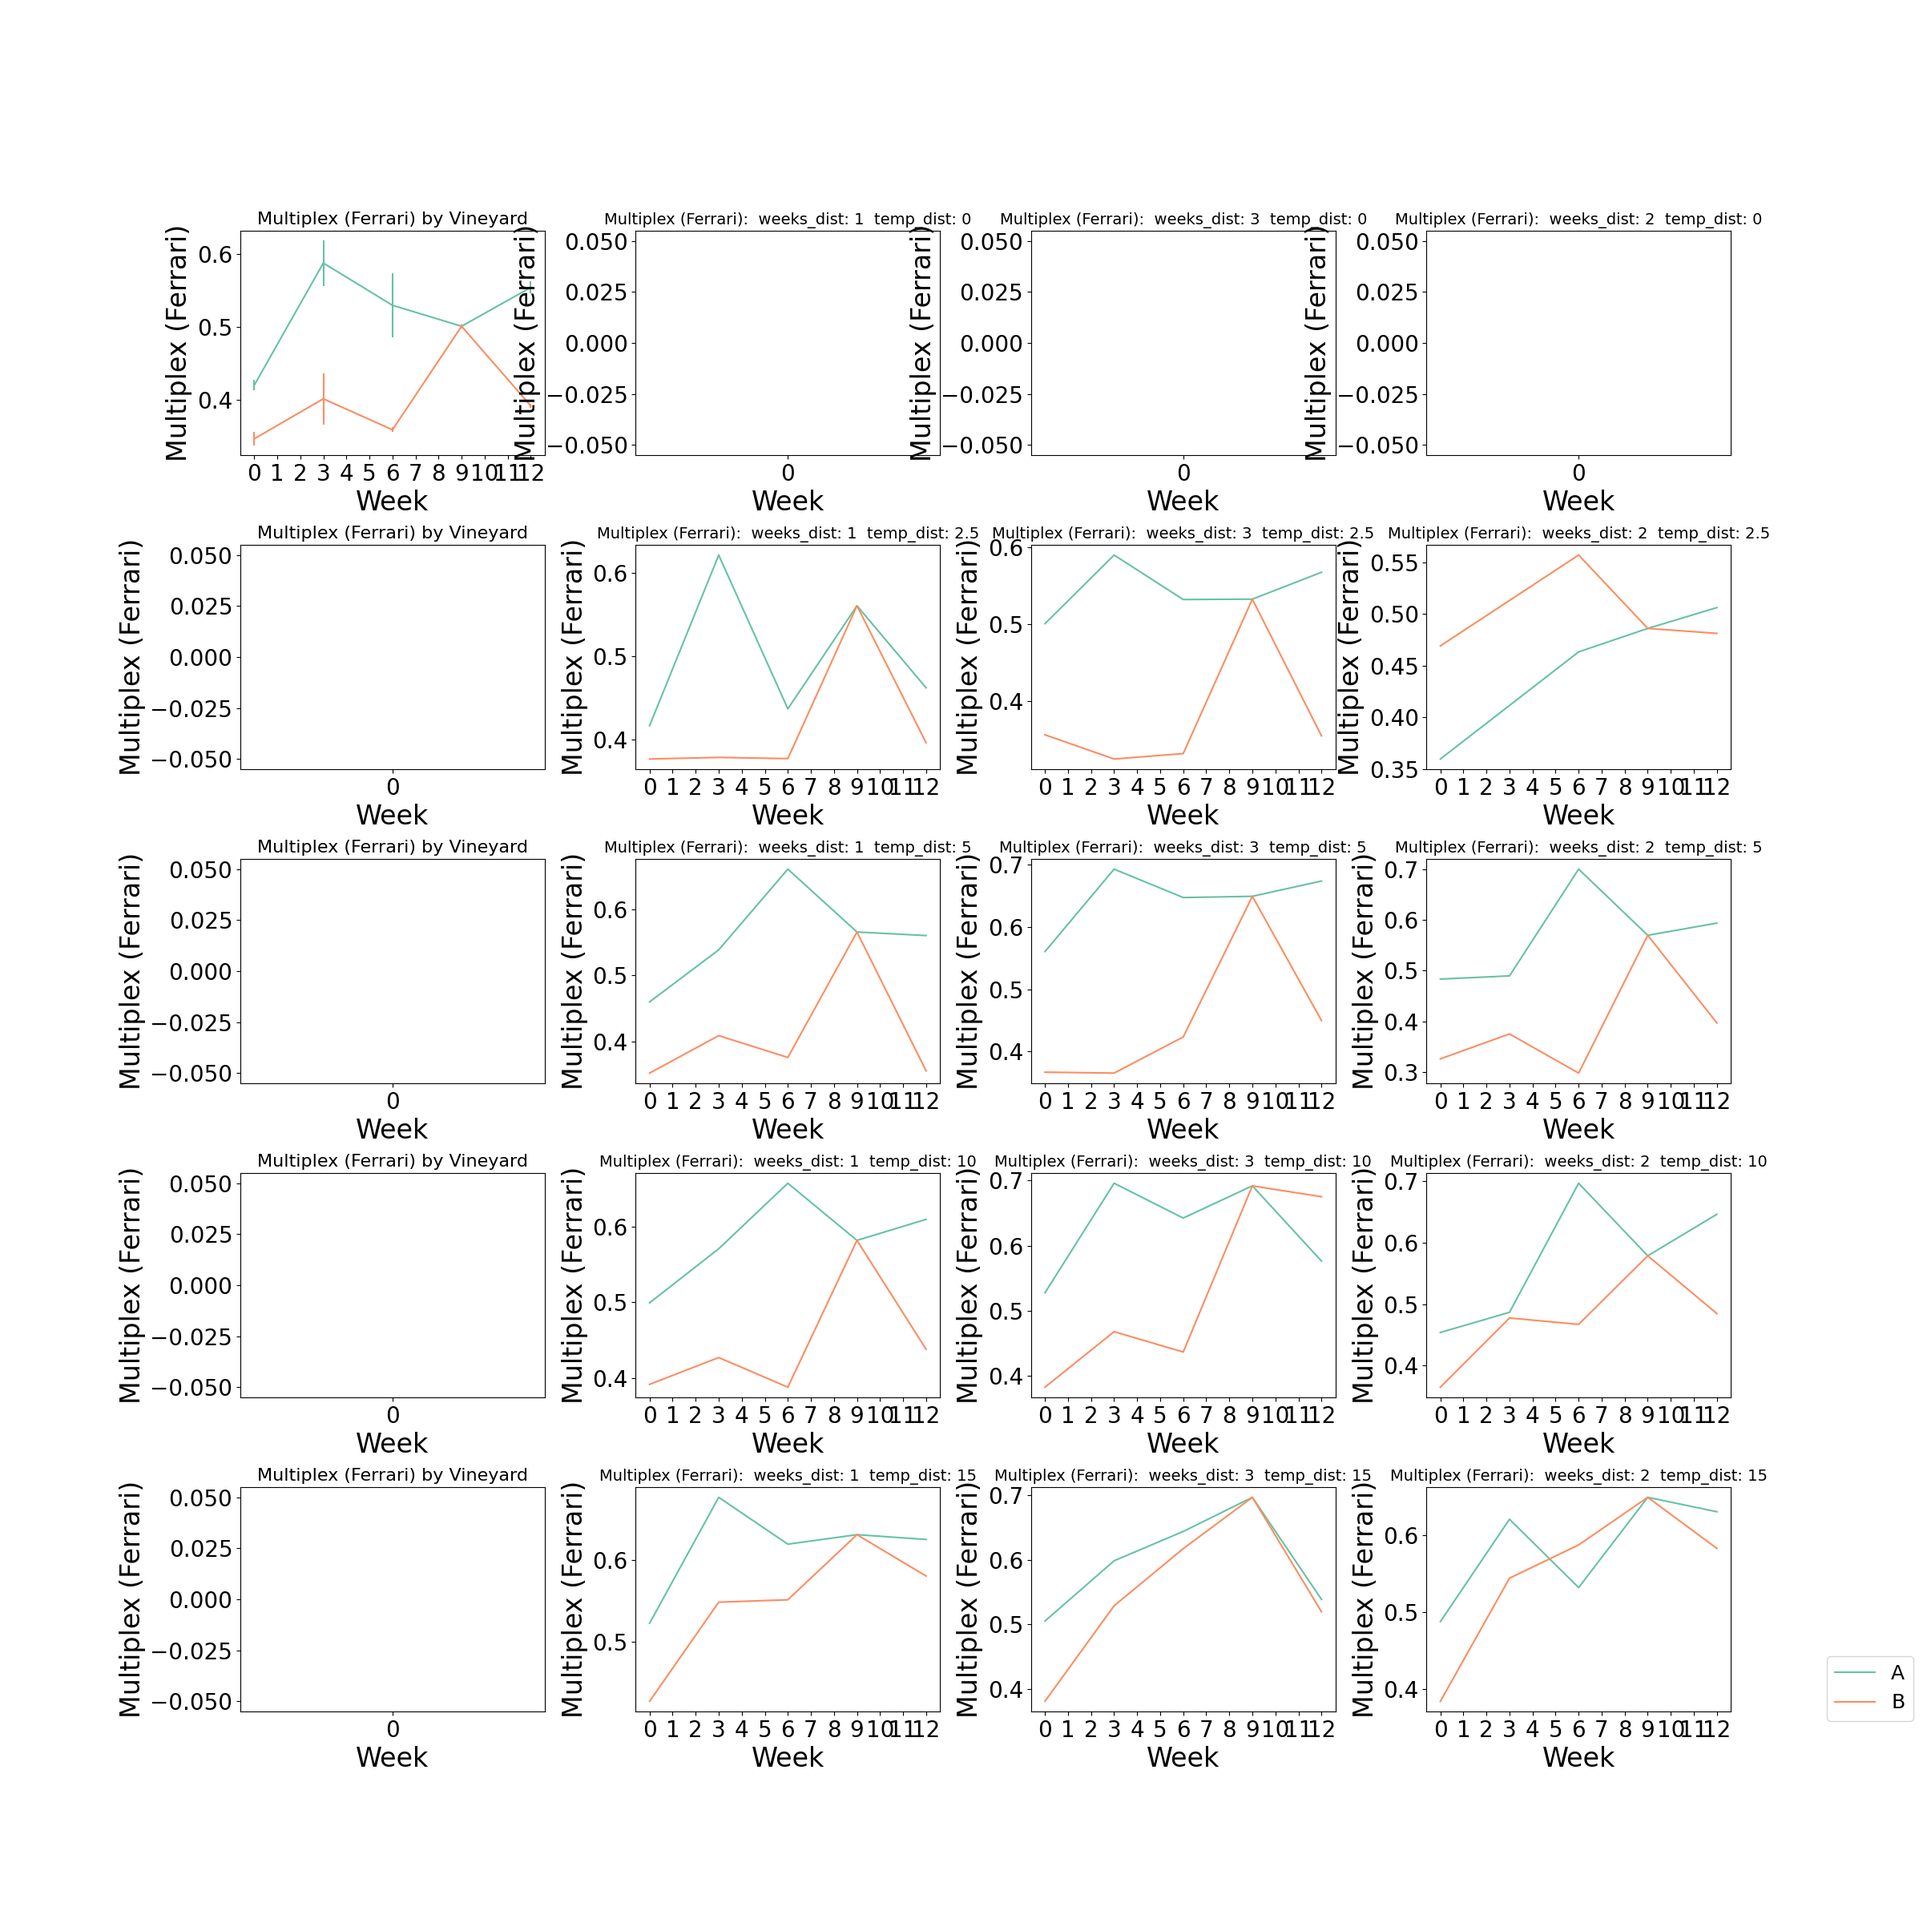
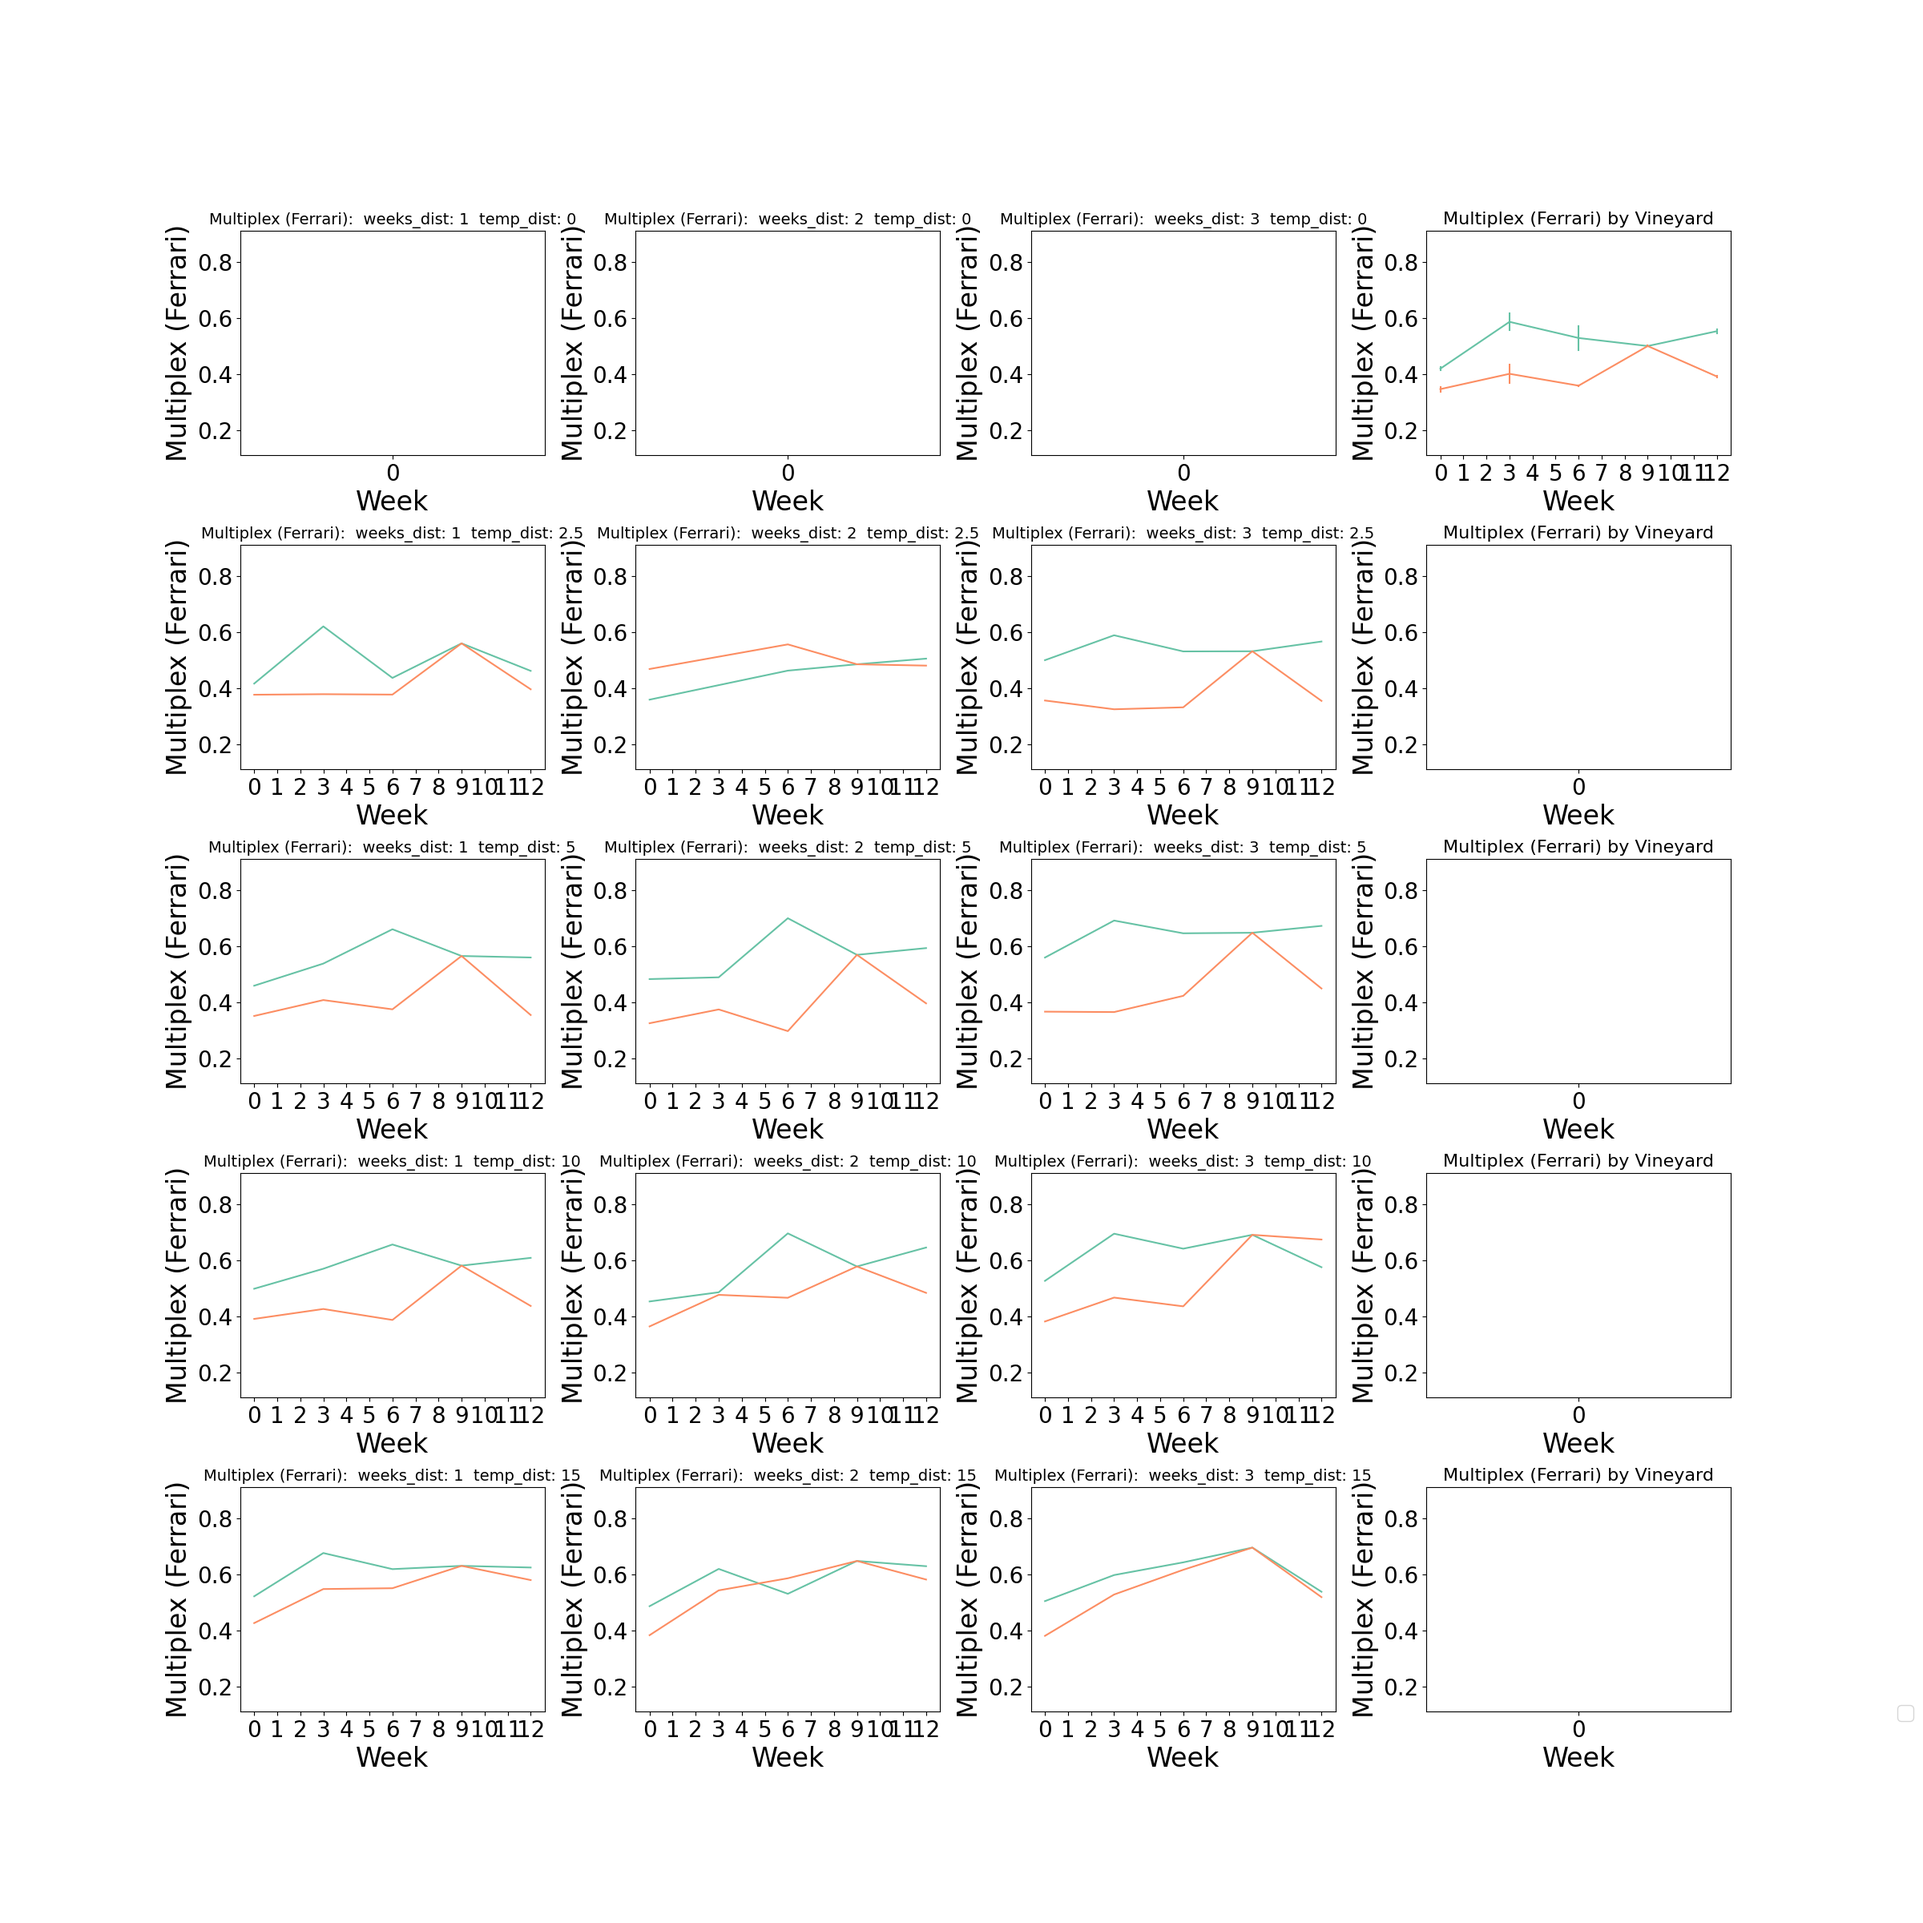
1. adding correlation matrix by vinyards. 2. adding matrix print with same y axis

diff --git a/main.py b/main.py
@@ -150,9 +150,9 @@ def get_prep_df(path, path_b, path_v, treatment_dict: dict) -> pd.DataFrame:
     return new_df
 
 
-def plot_correl_matrix(corr_mat: pd.DataFrame, correlation_name: str):
+def plot_correl_matrix(corr_mat: pd.DataFrame, correlation_name: str, vinyeard:str):
     '''
-    :param corr_mat: correlation matrix prepared to create the datafram
+    :param corr_mat: correlation matrix prepared to create the dataframe
     :return: figure of correlation matrix
     '''
 
@@ -172,13 +172,12 @@ def plot_correl_matrix(corr_mat: pd.DataFrame, correlation_name: str):
     plt.tight_layout()
     plt.show()
     plt.draw()
-    fig5.savefig('figures_update/' + correlation_name + '.png')
+    fig5.savefig('figures_update/' + correlation_name + ', Vineyard: ' + vinyeard + '.png')
     # plt.show()
 
 
 def create_pearson_correl(df: pd.DataFrame, col_list_in: list, col_list_out: list):
     '''
-
     :param df: raw_data
     :param col_list_in: relevant columns list from measures taken from time 0
     :param col_list_out: relevant columns list from measures that we want to check correl 78
@@ -187,21 +186,23 @@ def create_pearson_correl(df: pd.DataFrame, col_list_in: list, col_list_out: lis
         2. correlation matrix of all features taken in entrance to storage vs relevant output features.
     '''
     # in features vs in features
-    df_in = df[col_list_in]
-    correl = df_in.corr()
-    plot_correl_matrix(correl, correlation_name='in_vs_in')
+    df_in = df[col_list_in + ['Vineyard']]
+    df_out = df[col_list_out]
+
+    for Vineyard in df_in['Vineyard'].unique():
+        correl = df_in[df_in['Vineyard'] == Vineyard].corr()
+        plot_correl_matrix(correl, correlation_name='in_vs_in', vinyeard = Vineyard)
 
     # in features vs. out features
-    df_out = df[col_list_out]
-    results = pd.concat(
-        [df_in, df_out.add_suffix('_out')],
+
+
         # [df.loc[:, ~df.columns.isin(['Vineyard', 'Treatment', 'Replication', 'Time','new_time'])], df_out.add_suffix('_out')],
-        axis=1)
-    correl_out = results.corr()
-    out_cols = [col for col in correl_out.columns if '_out' in col]
-    correl_out = correl_out[out_cols]
-    correl_out = correl_out[~correl_out.index.str.contains('_out')]
-    plot_correl_matrix(correl_out, correlation_name='in_vs_out')
+        results = pd.concat([df_in, df_out.add_suffix('_out')], axis=1)
+        correl_out = results[results['Vineyard'] == Vineyard].corr()
+        out_cols = [col for col in correl_out.columns if '_out' in col]
+        correl_out = correl_out[out_cols]
+        correl_out = correl_out[~correl_out.index.str.contains('_out')]
+        plot_correl_matrix(correl_out, correlation_name='in_vs_out', vinyeard = Vineyard)
 
 
 def get_storage_per_treatment(storage_df: dict, exp_desc: dict):
@@ -291,10 +292,10 @@ def get_relevant_data_per_period(storage_dict: dict):
             #  this function is OK. Now I want to take the result of this function and
             # combine it with the last row of relevant_data (relevant_data.iloc[-1:])
             # the problem is when I use cross join, some columns are disappearing, and it makes no sense.
-            #
-            tsfresh_treatment_data = get_data_from_tsfresh(treatment_num=treatments, df=relevant_data,
-                                                           storage_features=['Humidity', 'Temperature'])
-            all_storage_and_tsfresh_data = pd.merge(relevant_data.iloc[-1:], tsfresh_treatment_data, how='cross')
+####
+            # tsfresh_treatment_data = get_data_from_tsfresh(treatment_num=treatments, df=relevant_data,
+            #                                                storage_features=['Humidity', 'Temperature'])
+            # all_storage_and_tsfresh_data = pd.merge(relevant_data.iloc[-1:], tsfresh_treatment_data, how='cross')
             #this is what I want to do --> final_storage_data_per_treatment[i] = all_storage_and_tsfresh_data
             final_storage_data_per_treatment[i] = relevant_data.iloc[-1:]
 
@@ -321,7 +322,7 @@ def flatten_data_to_grpah(dim_list: list, df: pd.DataFrame, col_name: str, col_n
 
 
 def plot_graph(df: pd.DataFrame, col_name: str, dim_list: list, hue: str, tmp_dim_list: list, axs,
-               dist_week=None, dist_temp=None):
+               ytickslim = None ,dist_week=None, dist_temp=None):
     '''
 
     :param df: flatten data frame with structered known data
@@ -330,6 +331,7 @@ def plot_graph(df: pd.DataFrame, col_name: str, dim_list: list, hue: str, tmp_di
     :param hue: variable to brake the lines with
     :param tmp_dim_list: dimensions list brakedown (hue)
     :param axs: changing axs to plot the figure on.
+    :param ytickslim: set the y axis ticks to be equal in all subplots.
     :return: each facets with multiple subplots.
     '''
     df_plot = df.fillna(np.inf).groupby(dim_list)[[col_name]].mean().replace(np.inf, np.nan).reset_index()
@@ -346,6 +348,8 @@ def plot_graph(df: pd.DataFrame, col_name: str, dim_list: list, hue: str, tmp_di
     axs.tick_params(axis='both', labelsize=20)
     axs.set_xlabel('Week', fontsize=24)
     axs.set_ylabel(col_name, fontsize=24)
+    if ytickslim:
+        axs.set_ylim(bottom=ytickslim[0], top=ytickslim[1])
     if dist_week:
         axs.set_title(label=col_name + ':  weeks_dist: ' + str(dist_week) + '  temp_dist: ' + str(dist_temp), size=14)
     else:
@@ -468,7 +472,7 @@ def create_all_subplots_per_each_fruit_feature(features_list: list, full_storage
                                                col_name_t0=data[1][
                                                    i] if features_list_t0 is not None else None)  # take t0 data if exist
         data_for_grpah['new_time'] = data_for_grpah['new_time'] * 3
-        # ax = fig.add_subplot(Rows, Cols, i_print)
+        ylim = (data_for_grpah.iloc[:,-1].quantile(0.01),data_for_grpah.iloc[:,-1].quantile(0.99))
         for temp in sorted(full_storage_data['disruption_temperature'].unique()):
             for length in sorted(full_storage_data['disruption_length'].unique()):
                 data_for_grpah['disruption_length'] = np.where(data_for_grpah['disruption_length'] == 12, 0,
@@ -485,7 +489,7 @@ def create_all_subplots_per_each_fruit_feature(features_list: list, full_storage
                                 data_for_grpah['disruption_length'] == length)]
                 plot_graph(df=plot_data_df, col_name=data[0][i], dim_list=dimension_list, hue='Vineyard',
                            tmp_dim_list=temp_dim_list, axs=ax, dist_week=0 if length == 12 else length,
-                           dist_temp=temp)
+                           dist_temp=temp, ytickslim=ylim)
                 i_print += 1
                 if len(plot_data_df):
                     ax.get_legend().remove()
@@ -506,15 +510,15 @@ if __name__ == '__main__':
     storage_list = list((Counter(full_data_w_storage) - Counter(COLS_ONLY_OUT) - Counter(relevant_t0_cols) - Counter(
         relevant_cols) - Counter(NOT_PRINT_TRENDS) - Counter(COLS_HUE)).elements())
 
-    data_to_plot = {1: [relevant_cols, relevant_t0_cols],  # data that collected both in and out
+    data_to_plot = {#1: [relevant_cols, relevant_t0_cols],  # data that collected both in and out
                     2: [COLS_ONLY_OUT, 'None'],  # data collected only in out storage
-                    3: [storage_list, 'None']  # data relevant for storage only
+                    #3: [storage_list, 'None']  # data relevant for storage only
                     }
 
-    for feature_list in enumerate(data_to_plot.values()):
-        create_all_subplots(features_list=feature_list[1][0], full_storage_data=full_data_w_storage,
-                            features_list_t0=feature_list[1][1] if feature_list[1][1] != 'None' else None,
-                            dimension_list=DIMS_FOR_GRAPHS, ncols=4, data_place_in_dict=feature_list[0])
+    # for feature_list in enumerate(data_to_plot.values()):
+    #     create_all_subplots(features_list=feature_list[1][0], full_storage_data=full_data_w_storage,
+    #                         features_list_t0=feature_list[1][1] if feature_list[1][1] != 'None' else None,
+    #                         dimension_list=DIMS_FOR_GRAPHS, ncols=4, data_place_in_dict=feature_list[0])
     #
 
     # matrix plotting
@@ -524,6 +528,6 @@ if __name__ == '__main__':
     #                             dimension_list=DIMS_FOR_GRAPHS, data_place_in_dict=feature_list[0])
 
     # # create correlation matrix
-    # in_cols = [col for col in raw_data.columns if 'T0' in col and col!= 'Shattering(%) (T0)']
-    # create_pearson_correl(raw_data, col_list_in=in_cols, col_list_out=COLS_OUT)
+    in_cols = [col for col in raw_data.columns if 'T0' in col and col!= 'Shattering(%) (T0)']
+    create_pearson_correl(raw_data, col_list_in=in_cols, col_list_out=COLS_OUT)
     print("Done!!!")
